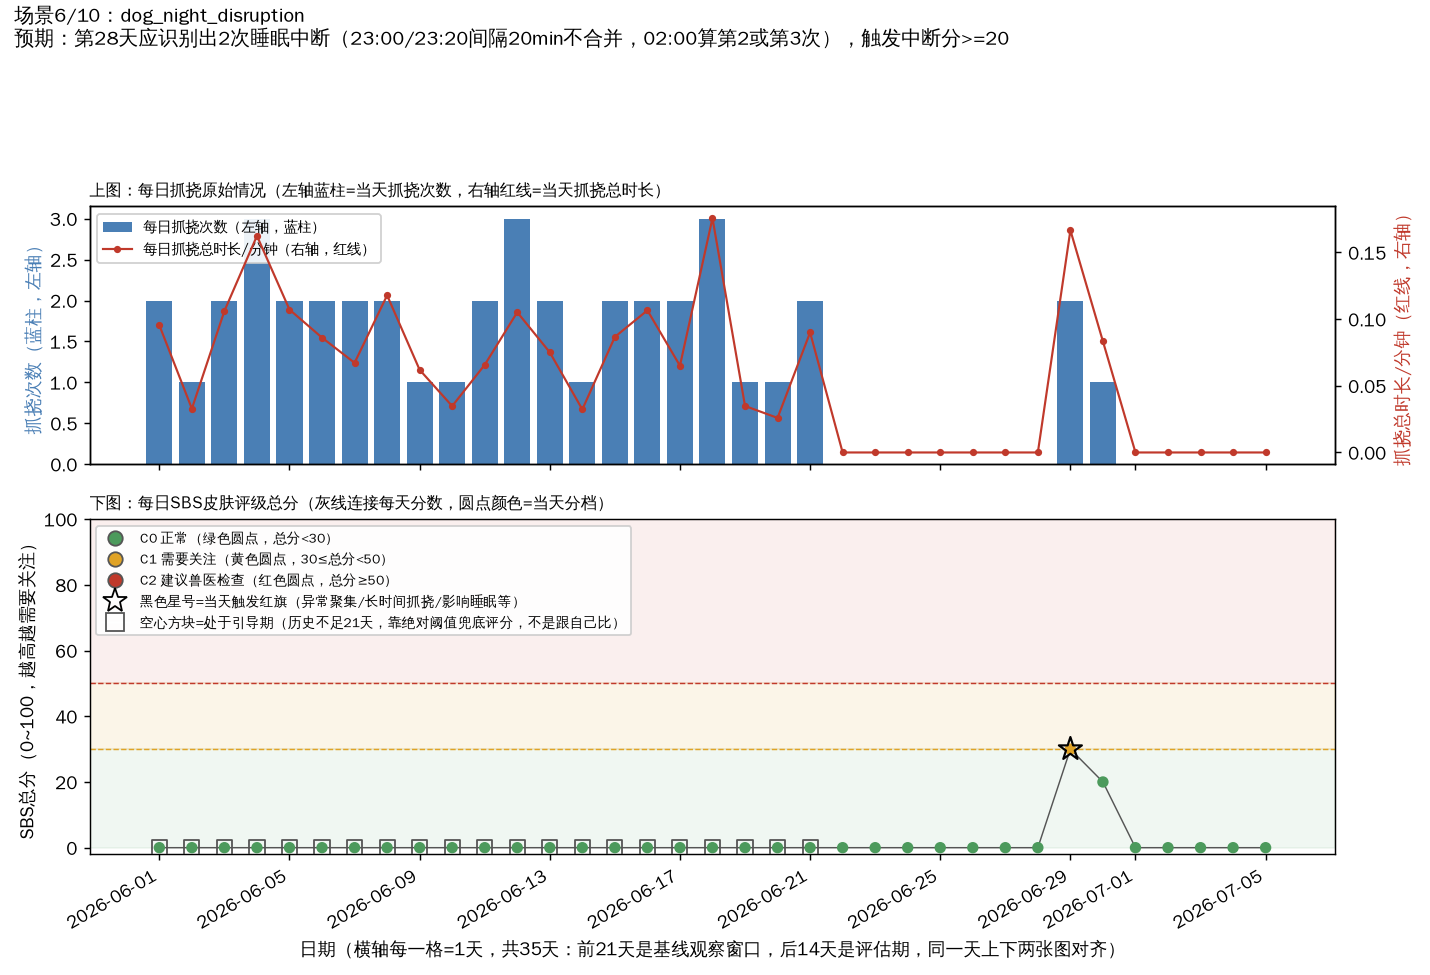
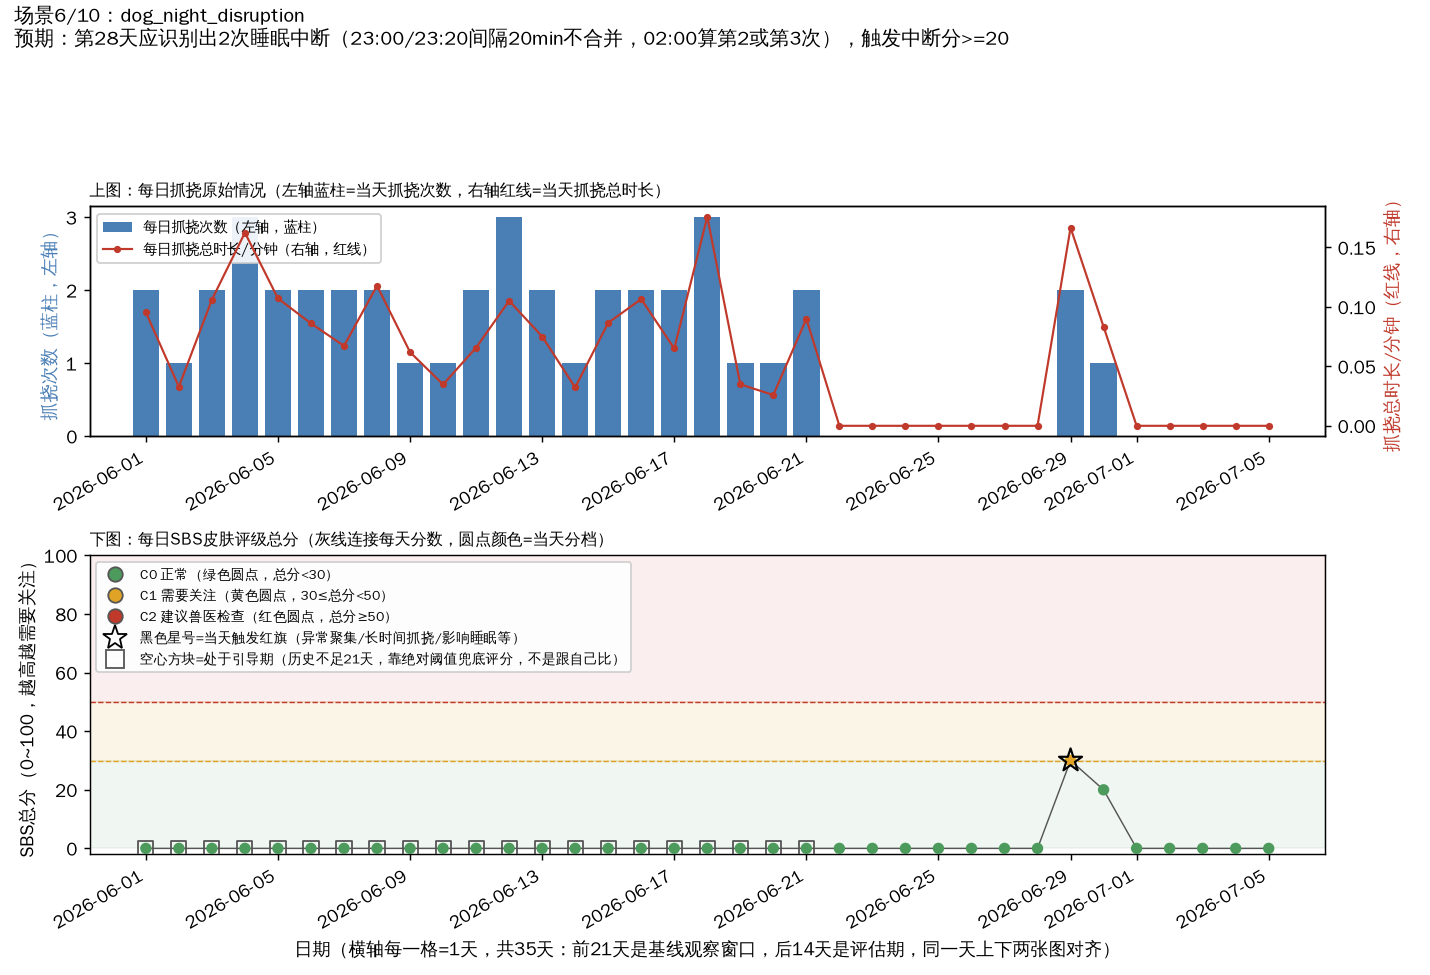
docs: 场景画廊上下两张图各自显示日期轴
之前用sharex=True，matplotlib默认只在最下面那张图显示日期刻度，
上图空着，看的时候得靠下图对照日期，不直观。改成不共享x轴、
手动对齐xlim，上下两张图各自显示完整日期标签。

diff --git a/skin_health/code/plot_scenario_gallery.py b/skin_health/code/plot_scenario_gallery.py
@@ -48,7 +48,9 @@ _TIER_COLOR = {"C0": "#4c9a5c", "C1": "#e0a326", "C2": "#c0392b", "insufficient_
 def plot_one(idx, pet_id, daily_df, result_df, expect):
     """上图：每日抓挠次数（柱状）+ 总时长（次坐标折线）；下图：SBS总分随天变化，
     C0/C1/C2三档背景色区分，红旗天用星号标出。每张图自带完整图例，不用对照文字说明才能看懂。"""
-    fig, (ax1, ax2) = plt.subplots(2, 1, figsize=(11, 7.5), sharex=True,
+    # 不用 sharex=True——它会自动隐藏上图的日期刻度标签，两张图分开各自显示一份日期，
+    # 后面手动把xlim对齐，效果上还是"两张图上下对得上"，但上图的日期不会被隐藏
+    fig, (ax1, ax2) = plt.subplots(2, 1, figsize=(11, 7.5),
                                     gridspec_kw={"height_ratios": [1, 1.3]})
 
     d = daily_df.sort_values("date")
@@ -102,7 +104,11 @@ def plot_one(idx, pet_id, daily_df, result_df, expect):
                    "后14天是评估期，同一天上下两张图对齐）")
     fig.suptitle(f"场景{idx}/{len(SCENARIOS)}：{pet_id}\n预期：{expect}",
                  fontsize=11, x=0.01, ha="left", y=0.995)
-    fig.autofmt_xdate(rotation=30)
+    ax1.set_xlim(ax2.get_xlim())
+    for ax in (ax1, ax2):
+        ax.tick_params(axis="x", labelbottom=True, labelrotation=30)
+        for lbl in ax.get_xticklabels():
+            lbl.set_ha("right")
     fig.tight_layout(rect=(0, 0, 1, 0.90))
 
     out_path = os.path.join(ASSET_DIR, f"scenario_{pet_id}.png")
